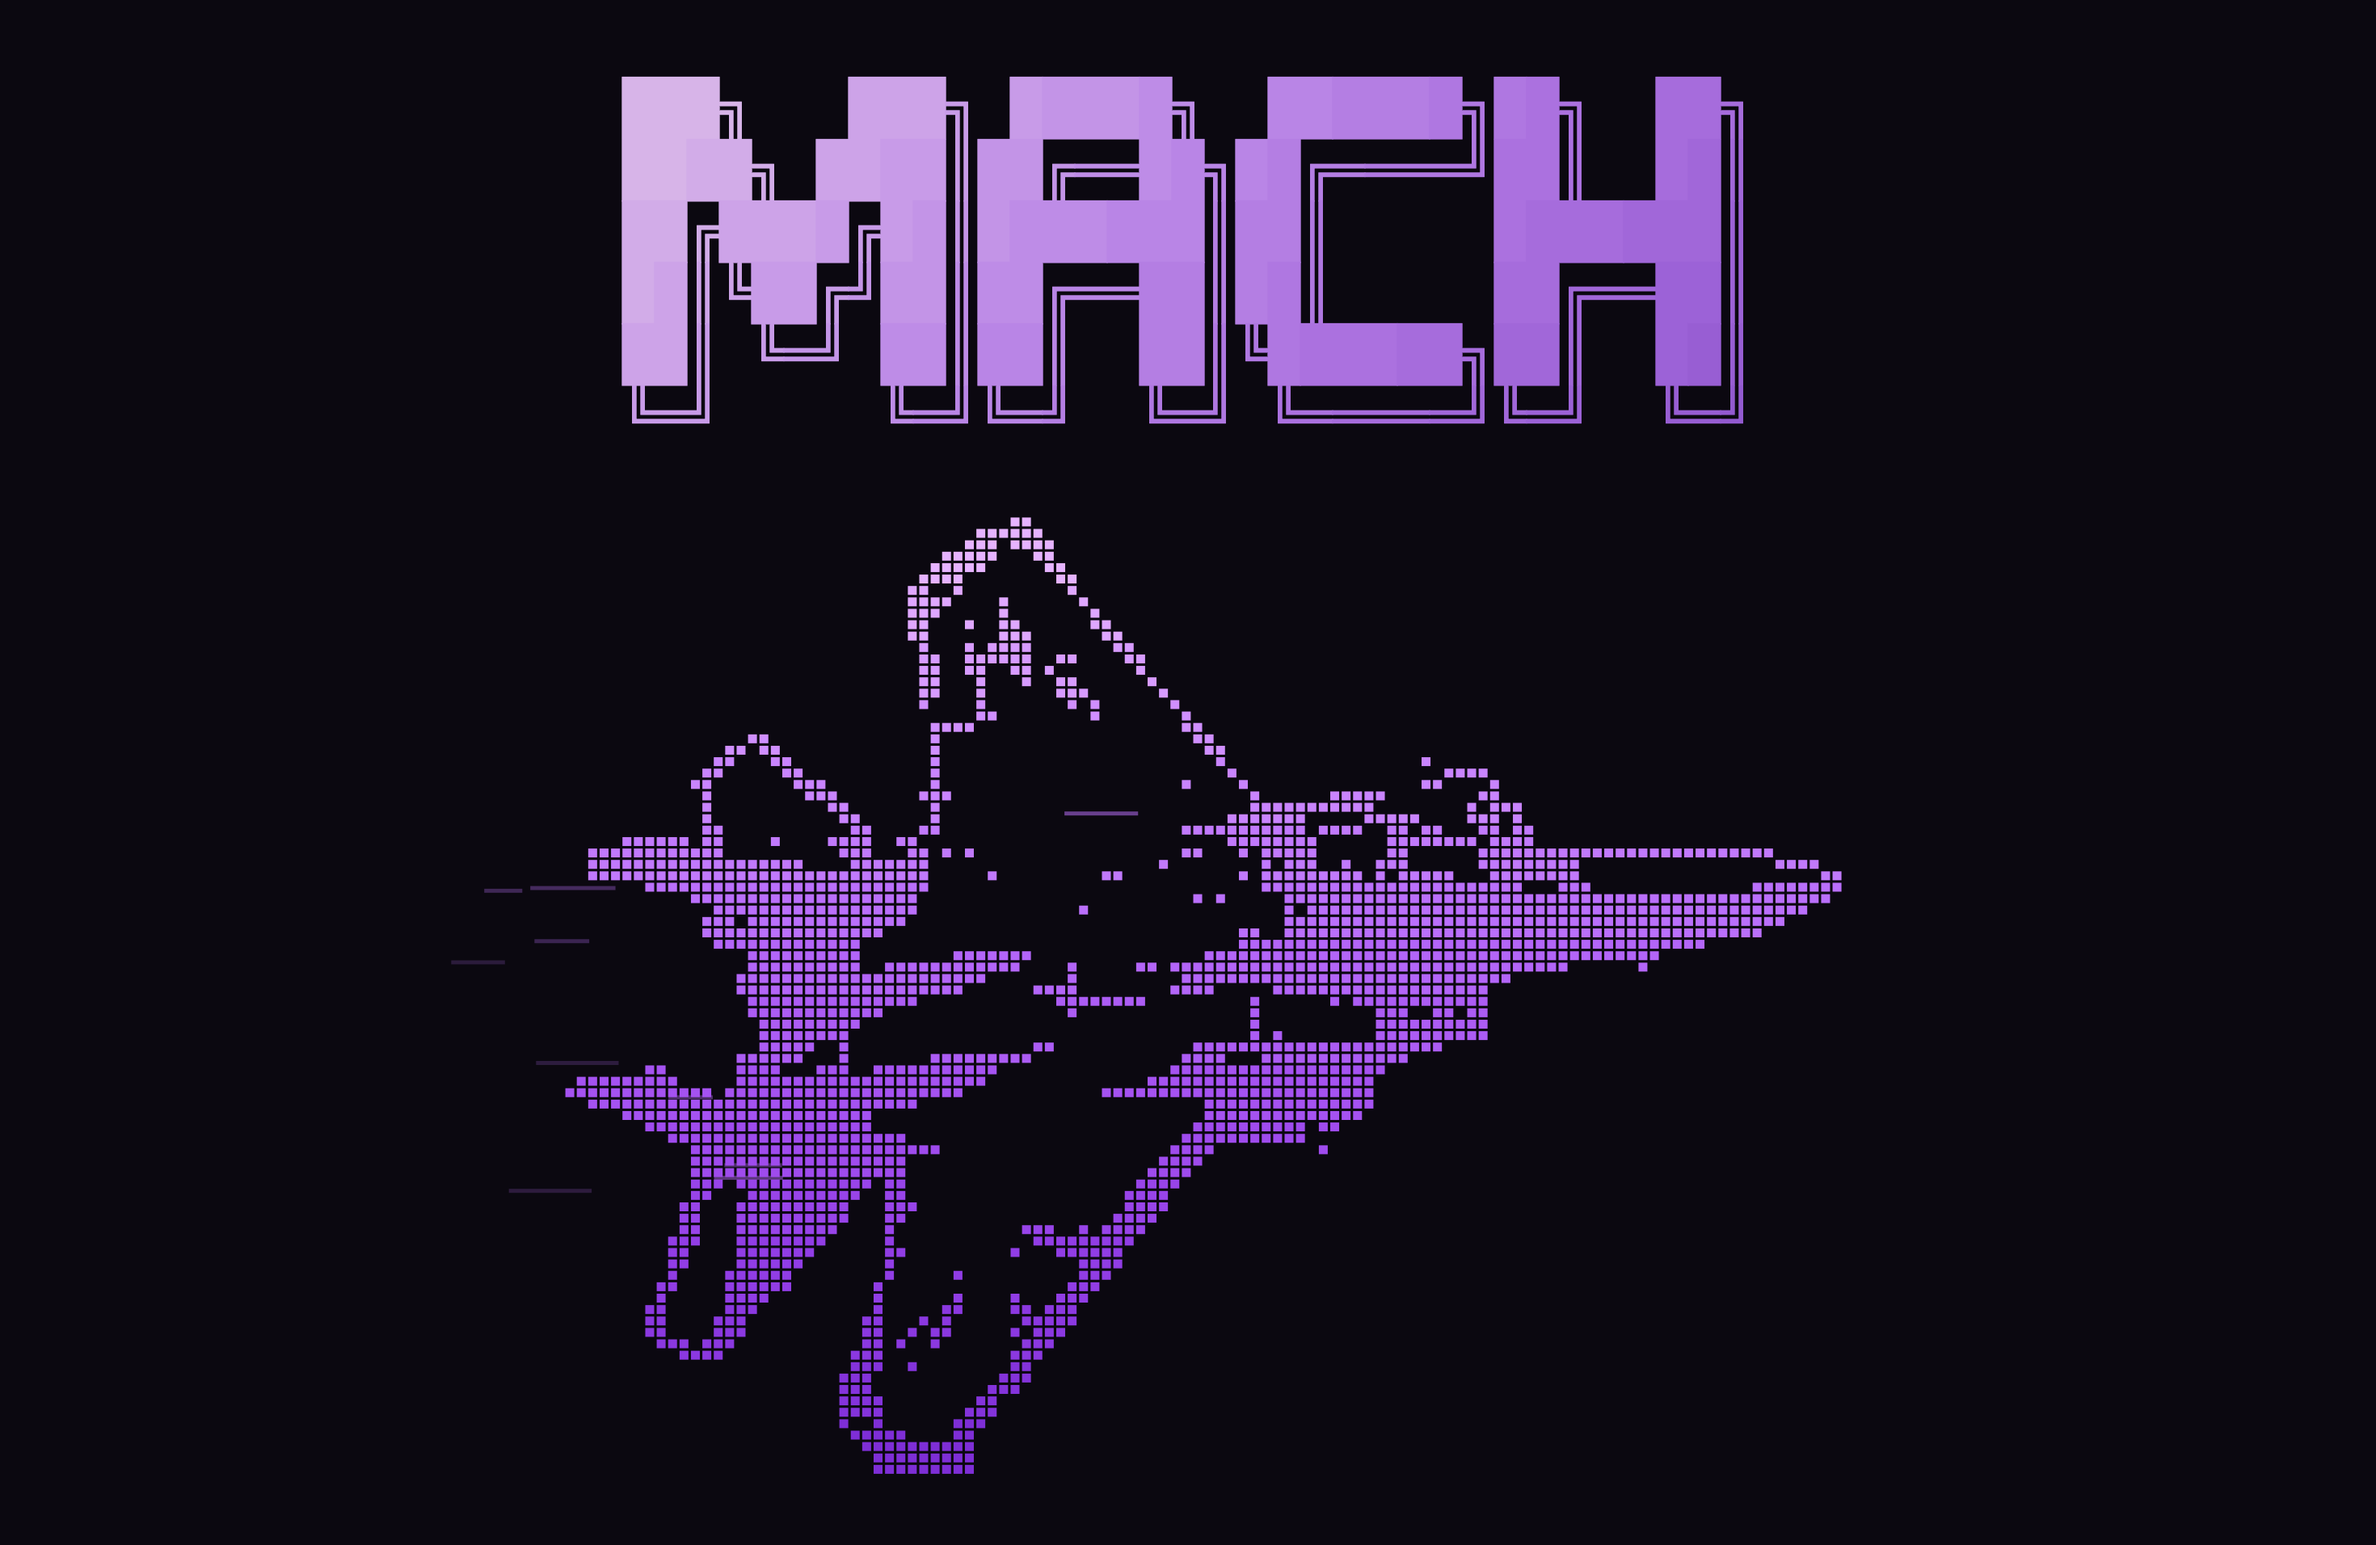
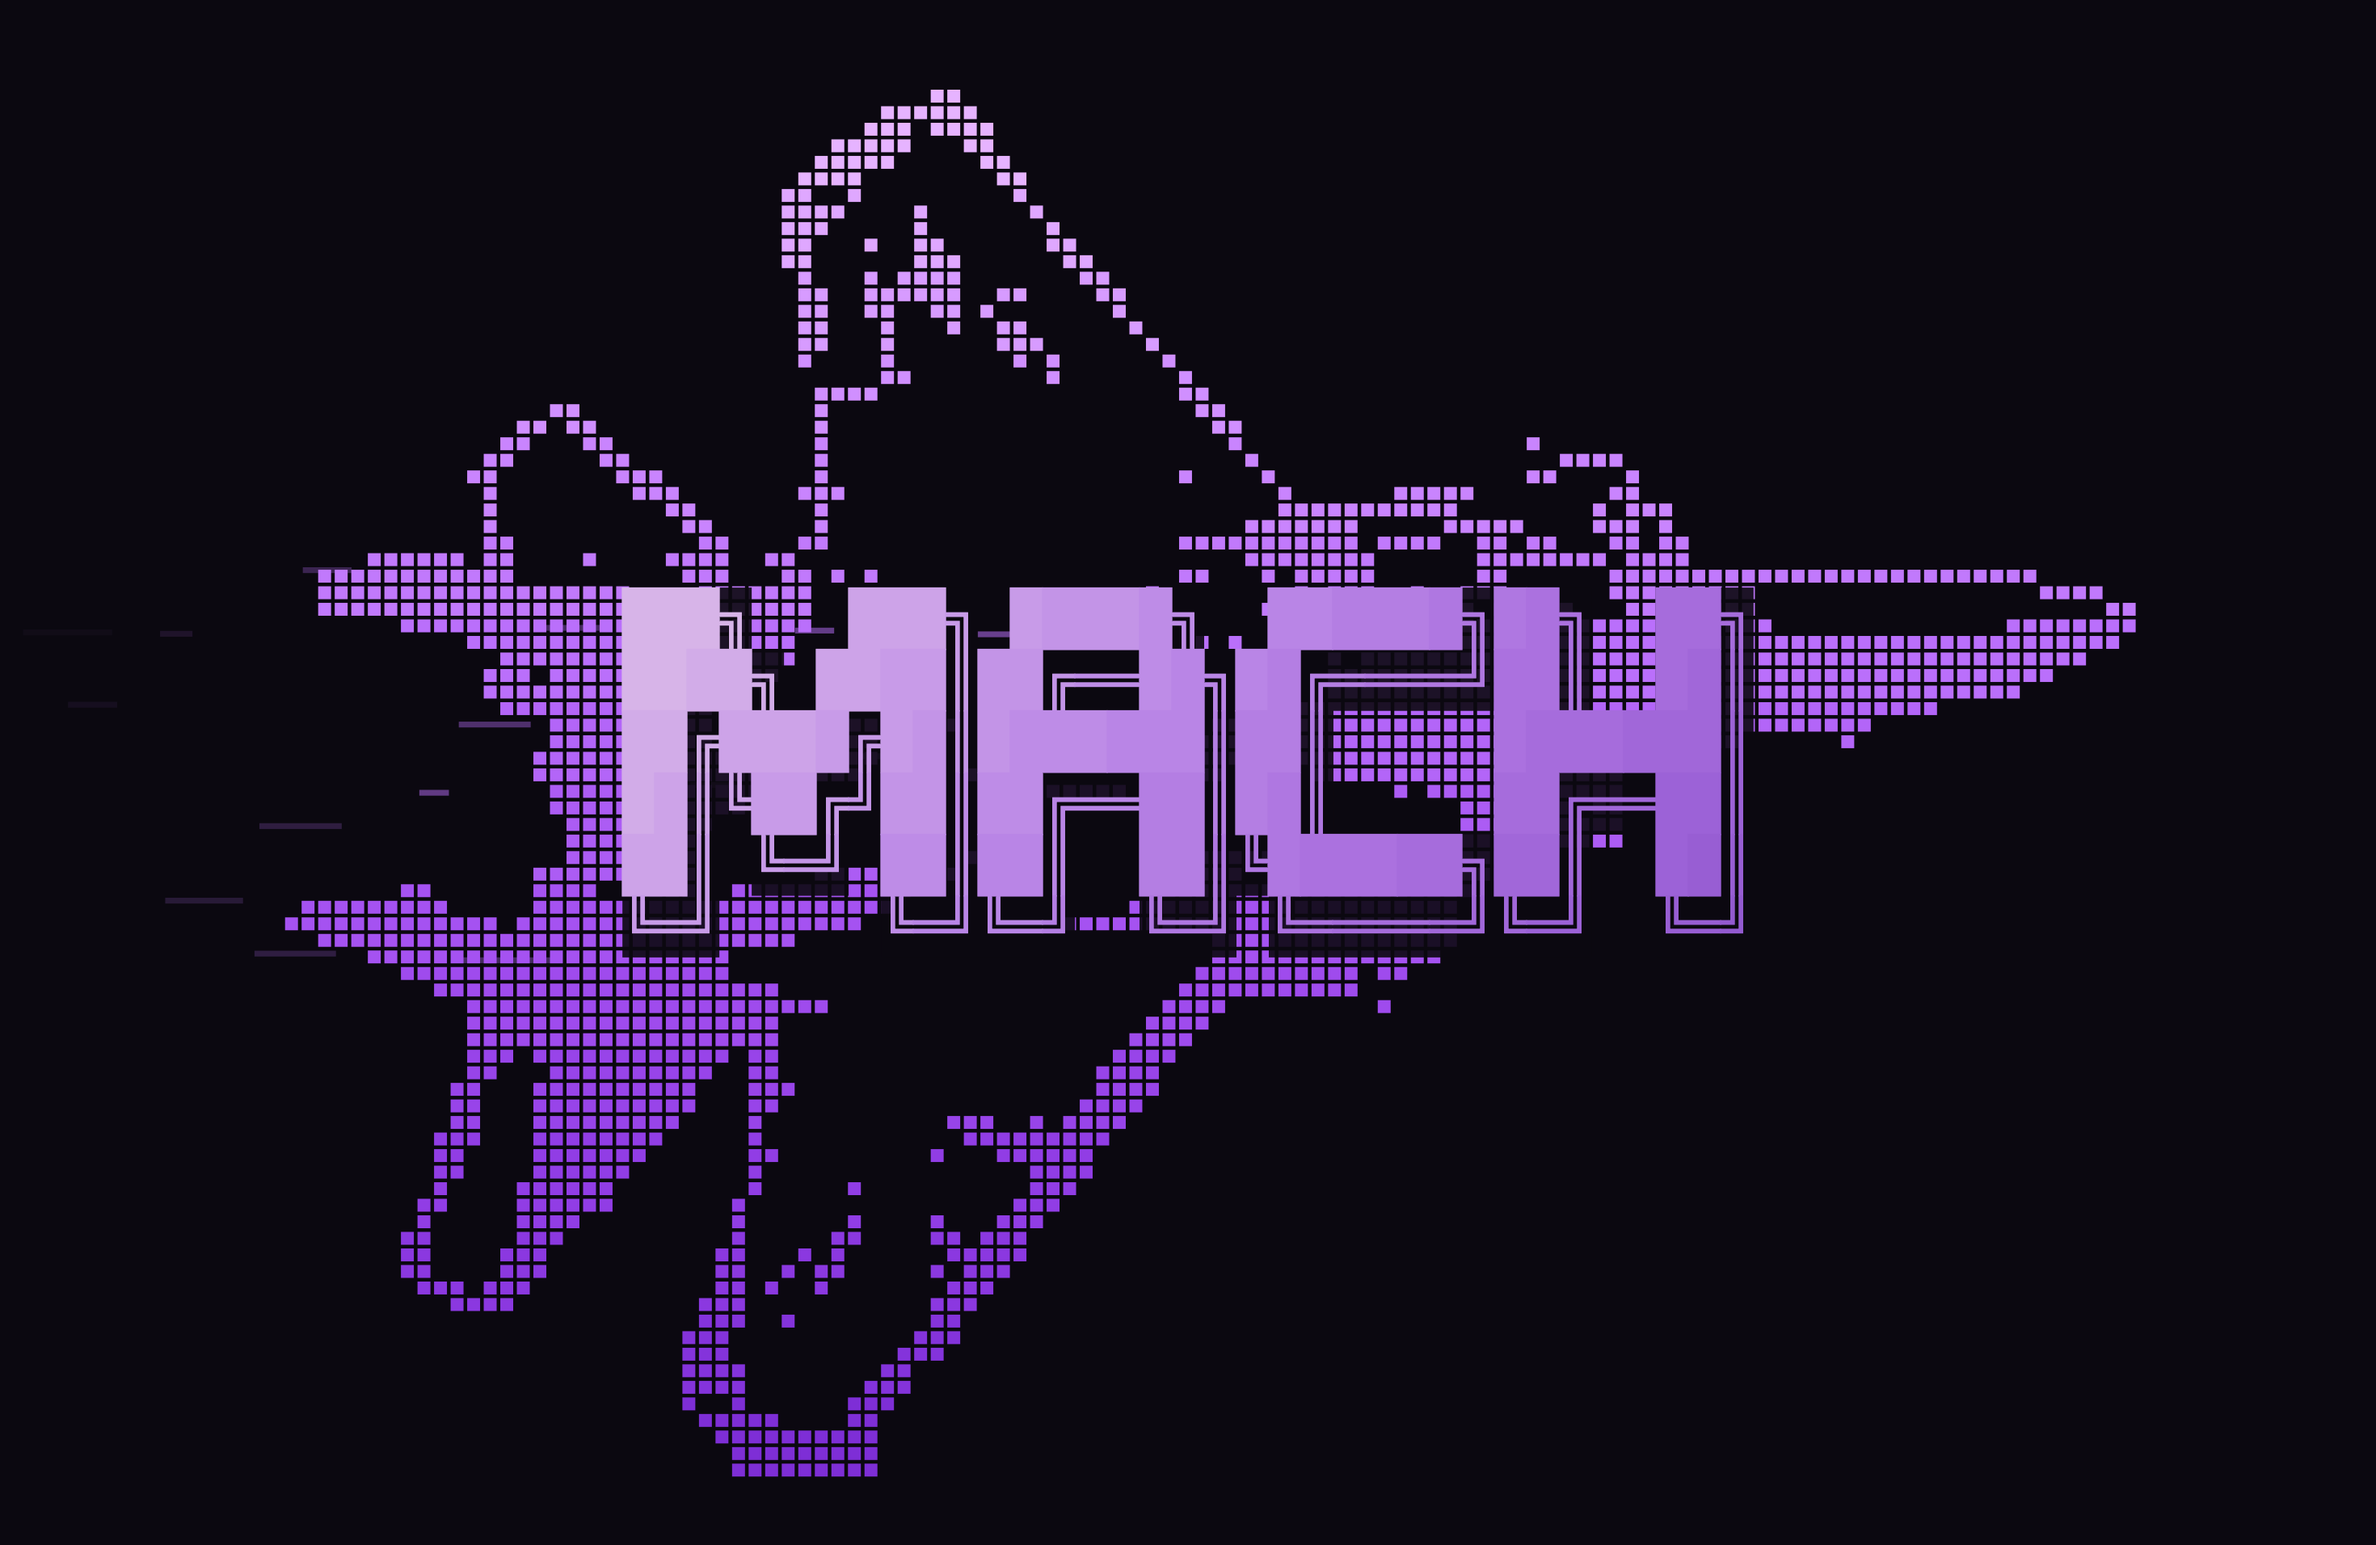
feat(afterburner): centre a bigger jet with MACH across its middle
The jet now fills ~90% of the screen height, centred, and MACH sits
large in the middle of it. Each MACH character clears a dark cell behind
it so the jet's dots don't show through the letters.

Changed region(s): [[0.1238, 0.0309, 0.8976, 0.9566]]

diff --git a/screensavers/afterburner/Afterburner.swift b/screensavers/afterburner/Afterburner.swift
@@ -168,19 +168,17 @@ final class Afterburner: ScreensaverView {
         let W = bounds.width, H = bounds.height
         laidOutFor = bounds.size
 
-        // MACH large across the top; the jet as big as fits in the rest.
-        let margin = H * 0.05, spacing = H * 0.04
+        // The jet as big as the screen allows, centred, with MACH large across its middle.
+        pitch = min(W * 0.94 / CGFloat(max(1, logo.width)), H * 0.9 / CGFloat(max(1, logo.height)))
+        gap = 0
+        logoSize = CGSize(width: CGFloat(logo.width) * pitch, height: CGFloat(logo.height) * pitch)
+        logoOrigin = CGPoint(x: (W - logoSize.width) / 2, y: (H + logoSize.height) / 2)
         let machCols = CGFloat(Art.mach[0].count), machRows = CGFloat(Art.mach.count)
         let probe = GlyphFont(size: 20)
         let k = min(W * 0.7 / (machCols * probe.advance), H * 0.24 / (machRows * probe.lineHeight))
         titleFont = GlyphFont(size: (20 * k).rounded())
         let machW = machCols * titleFont.advance, machH = machRows * titleFont.lineHeight
-        titleOrigin = CGPoint(x: (W - machW) / 2, y: H - margin - machH)
-        let jetH = titleOrigin.y - spacing - margin
-        pitch = min(W * 0.92 / CGFloat(max(1, logo.width)), jetH / CGFloat(max(1, logo.height)))
-        gap = 0
-        logoSize = CGSize(width: CGFloat(logo.width) * pitch, height: CGFloat(logo.height) * pitch)
-        logoOrigin = CGPoint(x: (W - logoSize.width) / 2, y: margin + (jetH + logoSize.height) / 2)
+        titleOrigin = CGPoint(x: (W - machW) / 2, y: (H - machH) / 2)
 
         // Effects can use the whole screen, measured in title characters.
         let textTop = titleOrigin.y + machH
@@ -285,12 +283,14 @@ final class Afterburner: ScreensaverView {
         let textTop = titleOrigin.y + CGFloat(effects.rows) * f.lineHeight
         var batches = Batches(Self.gradientSteps * Self.titleLevels)
         var hot = Batches(hotColors.count)
+        var cells: [CGRect] = []
         let screen = effects.screen
         let cols = Double(effects.cols), rows = Double(effects.rows)
         let draw = { (d: TextEffects.Draw) in
             guard d.x >= screen.minX - 1, d.x < screen.maxX, d.y >= screen.minY - 1, d.y < screen.maxY else { return }
             let p = CGPoint(x: self.titleOrigin.x + CGFloat(d.x) * f.advance,
                             y: textTop - CGFloat(d.y + 1) * f.lineHeight + f.descent)
+            if d.light > 0.2 { cells.append(CGRect(x: p.x, y: p.y - f.descent, width: f.advance, height: f.lineHeight)) }
             if d.hot {
                 hot.add(min(self.hotColors.count - 1, max(0, Int(d.light * Double(self.hotColors.count - 1)))), f.glyph(d.ch), p)
                 return
@@ -303,6 +303,10 @@ final class Afterburner: ScreensaverView {
         }
         let local = t - effectStart
         if local < effects.duration(effect) { effects.frame(effect, t: local, emit: draw) } else { effects.rested(emit: draw) }
+        // MACH sits on the jet: clear a cell behind each character so the
+        // jet's dots don't show through the letters.
+        ctx.setFillColor(palette.background.cg(0.9))
+        ctx.fill(cells)
         hot.draw(ctx, f.font, hotColors)
         batches.draw(ctx, f.font, titleColors)
     }

diff --git a/README.md b/README.md
@@ -11,8 +11,8 @@ mouse move brings you back.
 
 ![Afterburner](docs/afterburner.png)
 
-*`afterburner`: MACH in large letters over a braille jet that fills most of the
-screen. Like Omarchy's screensaver, MACH plays one
+*`afterburner`: a braille jet filling the screen with MACH in large letters
+across its middle. Like Omarchy's screensaver, MACH plays one
 [terminaltexteffects](https://github.com/ChrisBuilds/terminaltexteffects)-style
 effect after another at random: decrypt, beams, rain, slide, expand,
 scattered, middle-out, print, unstable, burn, waves, matrix, spray, crumble
